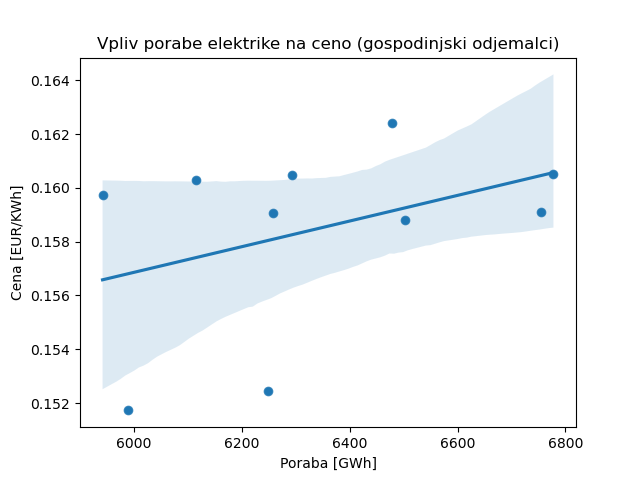
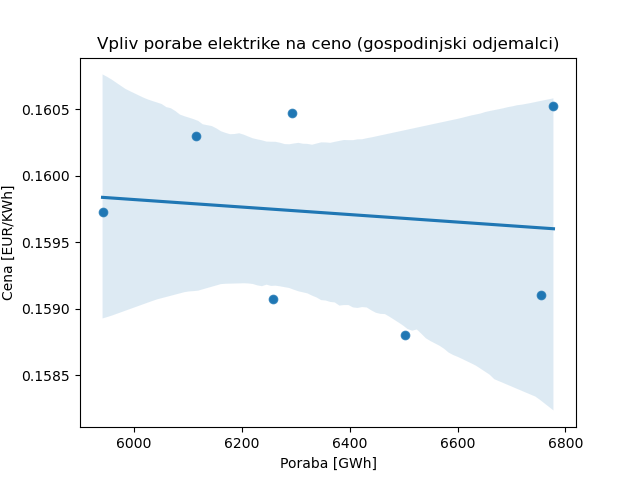
popravek: upoštevanje osamelcev

diff --git a/py/vpliv_mini-elektrarn_na_ceno.py b/py/vpliv_mini-elektrarn_na_ceno.py
@@ -1,30 +1,33 @@
+import numpy as np
 from matplotlib import pyplot as plt
 from collections import defaultdict
 import statsmodels.api as sm
 import scipy.stats as stats
 import seaborn as sns
 import pandas as pd
-
+from sklearn.model_selection import cross_val_score
+from sklearn.tree import DecisionTreeRegressor
 
 # ---------- UVOZ PODATKOV ----------
 cene_df = pd.read_csv('../podatki/csv/cena_elektrike.csv', encoding='cp1250')
-porabe_df = pd.read_csv('../podatki/csv/poraba_skupaj_brez-transformacij.csv', encoding='cp1250')
+proizvodi_df = pd.read_csv('../podatki/csv/1817604S_20230515-223209.csv', encoding='cp1250').drop('MERITVE', axis=1)
 
 
 # ---------- PREDPROCESIRANJE ----------
 # odstrani povprečne cene (na voljo je več kategoriziranih cen po določeni porabi)
 cene_df = cene_df.loc[[0, 6]]
 
-# odstrani stolpca, ki vsebujeta ime skupin/dejavnosti
+# odstrani neportebne stolpce
 cene_df = cene_df.drop([cene_df.keys()[0]], axis=1)
-porabe_df = porabe_df.drop([porabe_df.keys()[0]], axis=1)
+proizvodi_df = proizvodi_df.drop(columns=proizvodi_df.columns[0::3])
 
 # pretvori vrednosti v numerične tipe (errors vrne NaN, če vrednost ni neko število)
 for column in cene_df.columns:
     cene_df[column] = pd.to_numeric(cene_df[column], errors='coerce')
 
-for column in porabe_df.columns:
-    porabe_df[column] = pd.to_numeric(porabe_df[column], errors='coerce') / 3.6     # dodatna pretvorba iz TJ v GWh
+for column in proizvodi_df.columns:
+    proizvodi_df[f'{column[:4]}_{1 if column[5] == "S" else 2}'] = pd.to_numeric(proizvodi_df[column], errors='coerce')
+    proizvodi_df = proizvodi_df.drop(columns=[column])
 
 # pogrupiraj cetrtletja skupaj
 cetrtletja_po_letih = defaultdict(list)
@@ -36,76 +39,80 @@ for leto in cetrtletja_po_letih.keys():
     cene_df[leto] = cene_df[cetrtletja_po_letih[leto]].mean(axis=1)
     cene_df = cene_df.drop(cetrtletja_po_letih[leto], axis=1)
 
-# odstrani nepotrebno besedilo poleg leta
-for naziv in porabe_df.keys():
-    porabe_df[naziv[:4]] = porabe_df[naziv]
-    porabe_df = porabe_df.drop(naziv, axis=1)
+# povpreči para enakih let in počisti imena stolpcev, da bodo samo leta, brez dodatnega besedila
+pari_stolpcev = [(f'{leto}_1', f'{leto}_2') for leto in range(1996, 2022)]
+for col1, col2 in pari_stolpcev:
+    proizvodi_df[col1[:4]] = proizvodi_df[[col1, col2]].sum(axis=1)
+proizvodi_df = proizvodi_df.drop(columns=[col for col in proizvodi_df.columns if len(col) > 4])
+
+# prikaži graf proizvodnje mini-elektrarn skozi čas (1996 - 2021)
+_, ax = plt.subplots(figsize=(10, 6))
+ax.plot(proizvodi_df.columns, proizvodi_df.loc[0])
+plt.title('Proizvodnja zasebnih mini-elektrarn skozi leta v Sloveniji')
+plt.xlabel('Čas [leto]')
+plt.ylabel('Proizvod [GWh]')
+plt.xticks(rotation=-45)
+plt.show()
 
 # obdrži podatke le za tista leta, ki so skupna obema
 veljavna_leta = [str(n) for n in range(2012, 2022)]
-for leto in cene_df.keys():
+for leto in proizvodi_df.keys():
     if leto not in veljavna_leta:
-        cene_df = cene_df.drop(leto, axis=1)
-
-for leto in porabe_df.keys():
-    if leto not in veljavna_leta:
-        porabe_df = porabe_df.drop(leto, axis=1)
+        proizvodi_df = proizvodi_df.drop(leto, axis=1)
 
 # transponiraj in ponastavi indekse (trenutno so indeksi leta, zato bodo shranjena v nov stolpec)
 cene_df = cene_df.transpose()
-porabe_df = porabe_df.transpose()
+proizvodi_df = proizvodi_df.transpose()
 cene_df.reset_index(inplace=True)
-porabe_df.reset_index(inplace=True)
+proizvodi_df.reset_index(inplace=True)
 
 # ustrezno spremeni imena stolpcev in ju združi
 cene_df.rename(columns={'index': 'leto', 0: 'cena_gosp', 6: 'cena_negosp'}, inplace=True)
-porabe_df.rename(columns={'index': 'leto', 0: 'poraba'}, inplace=True)
+proizvodi_df.rename(columns={'index': 'leto', 0: 'proizvod'}, inplace=True)
+
+# spremeni nov stolpec leto v numerično vrednost
+cene_df['leto'] = pd.to_numeric(cene_df['leto'], errors='coerce')
+proizvodi_df['leto'] = pd.to_numeric(proizvodi_df['leto'], errors='coerce')
 
 # razdeli cene na dva dataframe-a, saj se dva stolpca cen navezujeta na različne skupine odjemalcev
 gosp_cene_df = cene_df[['leto', 'cena_gosp']].copy()
 negosp_cene_df = cene_df[['leto', 'cena_negosp']].copy()
 
 # k obema dodaj porabo (glede na leto) in popravi ime cene, da bosta enaki
-gosp_cene_df = pd.merge(porabe_df, gosp_cene_df, on='leto')
-negosp_cene_df = pd.merge(porabe_df, negosp_cene_df, on='leto')
+gosp_cene_df = pd.merge(proizvodi_df, gosp_cene_df, on='leto')
+negosp_cene_df = pd.merge(proizvodi_df, negosp_cene_df, on='leto')
 gosp_cene_df.rename(columns={'cena_gosp': 'cena'}, inplace=True)
 negosp_cene_df.rename(columns={'cena_negosp': 'cena'}, inplace=True)
-
-# ---------- ZDRUŽEVANJE ---------- (izkazalo se je, da to daje slabše rezultate)
-# obema dataframe-u dodaj stolpec, ki označuje svojo grupo
-# gosp_cene_df['skupina'] = 0
-# negosp_cene_df['skupina'] = 1
-
-# združi ju v en dataframe
-# main_df = pd.concat([gosp_cene_df, negosp_cene_df], ignore_index=True)
-# print(main_df)
 
 
 # ---------- ANALIZE ----------
 def analyze(df, odjemalci):
-    correlation, p_value = stats.pearsonr(df['poraba'], df['cena'])
+    correlation, p_value = stats.pearsonr(df['proizvod'], df['cena'])
     print(f'---------- {odjemalci.upper()} ODJEMALCI ----------')
     print(f'Korelacija: {correlation}')
     print(f'p-vrednost: {p_value}')
 
-    X = df['poraba']
+    # OLS regresijski model
+    X = df['proizvod']
     y = df['cena']
     X = sm.add_constant(X)
     model = sm.OLS(y, X)
     results = model.fit()
     print(results.summary())
 
-    sns.scatterplot(x='poraba', y='cena', data=df)
-    sns.regplot(x='poraba', y='cena', data=df)
-    plt.title(f'Vpliv porabe elektrike na ceno ({odjemalci} odjemalci)')
-    plt.xlabel('Poraba [GWh]')
+    # prikaz korelacije med ceno in proizvodom
+    plt.subplots(figsize=(7, 5))
+    sns.scatterplot(data=df, x='proizvod', y='cena')
+    sns.regplot(data=df, x='proizvod', y='cena', color='darkblue')
+    plt.xlabel('Proizvod [GWh]')
     plt.ylabel('Cena [EUR/KWh]')
+    plt.title(f'Korelacija med proizvodom mini-elektrarn in ceno ({odjemalci} odjemalci)')
     plt.show()
 
 
 # odstranitev osamelcev
-gosp_cene_df.drop([0, 8, 9], inplace=True)
-negosp_cene_df.drop([9], inplace=True)
+# gosp_cene_df.drop([8], inplace=True)
+# negosp_cene_df.drop([], inplace=True)
 
 print(gosp_cene_df)
 print(negosp_cene_df)
